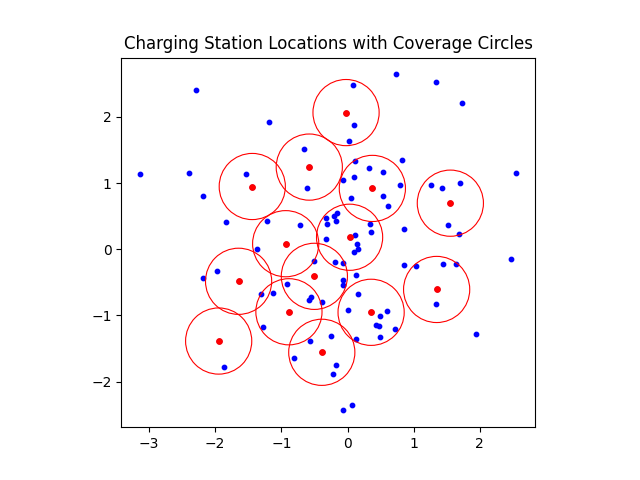
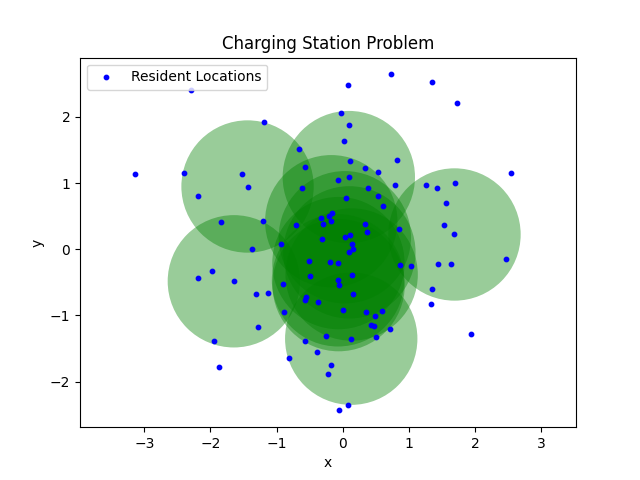
Code Update

diff --git a/ProblemInstance.py b/ProblemInstance.py
@@ -2,11 +2,14 @@ import numpy as np
 import matplotlib.pyplot as plt
 from matplotlib.patches import Circle
 import argparse
+import random
 
 class ProblemInstance:
-    def __init__(self, num_residents, resident_distribution, mpsd, std_dev, seed=None):
+    def __init__(self, num_residents, num_stations, resident_distribution, mpsd, threshold, std_dev, seed=None):
         self.num_residents = num_residents
+        self.num_stations = num_stations
         self.mpsd = mpsd
+        self.threshold = threshold
 
         if seed is not None:
             np.random.seed(seed)
@@ -23,71 +26,104 @@ class ProblemInstance:
         for i in range(num_residents):
             self.residents_within_mpsd[i] = [j for j in range(num_residents) if self.distance(self.resident_locations[i], self.resident_locations[j]) <= mpsd]
 
-        self.initial_costs = num_residents - np.array([len(self.residents_within_mpsd[loc]) for loc in range(num_residents)])
-
     def distance(self, loc1, loc2):
         return np.sqrt((loc1[0] - loc2[0])**2 + (loc1[1] - loc2[1])**2)
 
-    def solve(self, threshold=1.0):
-        uncovered_residents = set(range(self.num_residents))
-        selected_locations = set()
-        total_cost = 0
-        uncovered_resident_goal = (1 - threshold) * self.num_residents
+    def solve(self):
+        self.selected_locations = set()
+        self.covered_residents = set()
+        stations_left = self.num_stations
+        
+        while stations_left > self.num_stations / 2:
+            max_coverage = -1
+            best_location = -1
+            for i in range(self.num_residents):
+                if i in self.selected_locations:
+                    continue
+                new_coverage = len(set(self.residents_within_mpsd[i]) - self.covered_residents)
+                likelihood = self.getInstallationLikelihoodSimplified(i)
+                if new_coverage  > max_coverage and likelihood > 0:
+                    max_coverage = new_coverage
+                    best_location = i
+            self.selected_locations.add(best_location)
+            self.covered_residents.update(self.residents_within_mpsd[best_location])
+            stations_left -= 1
 
-        while len(uncovered_residents) > uncovered_resident_goal:
-            min_ratio = float('inf')
-            selected_location = None
+        while stations_left > 0:
+            max_coverage = -1
+            best_location = -1
+            for i in range(self.num_residents):
+                if i in self.selected_locations:
+                    continue
+                coverage = len(set(self.residents_within_mpsd[i]) & self.covered_residents)
+                likelihood = self.getInstallationLikelihoodSimplified(i)
+                if coverage * likelihood > max_coverage:
+                    max_coverage = coverage * likelihood
+                    best_location = i
+            self.selected_locations.add(best_location)
+            self.covered_residents.update(self.residents_within_mpsd[best_location])
+            stations_left -= 1
 
-            for resident in list(uncovered_residents):
-                residents_covered = [r for r in self.residents_within_mpsd[resident] if r in uncovered_residents]
-                ratio = self.initial_costs[resident] / len(residents_covered)
+        num_trials = 5000
+        num_successes = 0
 
-                if ratio < min_ratio:
-                    min_ratio = ratio
-                    selected_location = resident
+        for _ in range(num_trials):
+            num_covered = set()
+            for location in self.selected_locations:
+                if random.random() < self.getInstallationLikelihoodSimplified(location):
+                    num_covered.update(self.residents_within_mpsd[location])
+            if len(num_covered) >= self.threshold * self.num_residents:
+                num_successes += 1
 
-            selected_locations.add(selected_location)
-            total_cost += self.initial_costs[selected_location]
+        print('Selected Installation Locations:', self.selected_locations)
+        print()
+        print('Covered Residents:', self.covered_residents)
+        print()
+        print('Approximate Probability of Covering Threshold:', num_successes / num_trials)
 
-            uncovered_residents = uncovered_residents - set(self.residents_within_mpsd[selected_location])
+    def getInstallationLikelihoodSimplified(self, location):
+        return 0.5
 
-        self.selected_locations = selected_locations
-        self.total_cost = total_cost
+    def getInstallationLikelihood(self, location):
+        scale_factor = 5
+        mean = scale_factor * len(self.residents_within_mpsd[location]) / self.num_residents
+        return np.clip(np.random.normal(mean, 0.05), 0, 1)
 
     def plot(self, filename=None):
         fig, ax = plt.subplots()
 
-        ax.scatter(self.resident_locations[:, 0], self.resident_locations[:, 1], color='blue', label='Resident Locations', s=10)
-
         for loc in self.selected_locations:
-            ax.scatter(self.resident_locations[loc][0], self.resident_locations[loc][1], color='red', s=15)
-            circle = Circle((self.resident_locations[loc][0], self.resident_locations[loc][1]), self.mpsd, fill=False, color='red', linewidth=0.8)
+            circle = Circle((self.resident_locations[loc][0], self.resident_locations[loc][1]), self.mpsd, fill=True, color='green', linewidth=0, alpha=0.4)
             ax.add_patch(circle)
 
-        ax.set_aspect('equal', adjustable='box')
-        ax.set_title('Charging Station Locations with Coverage Circles')
-        
-        if filename != None:
-            plt.savefig("./Figures/" + filename + ".png")
-            
-        plt.show()
+        ax.scatter(self.resident_locations[:, 0], self.resident_locations[:, 1], color='blue', label='Resident Locations', s=10)
+
+        ax.legend()
+        plt.axis('equal')
+        plt.xlabel('x')
+        plt.ylabel('y')
+        plt.title('Charging Station Problem')
+
+        if filename:
+            plt.savefig(filename)
+        else:
+            plt.show()
 
 def main():
     parser = argparse.ArgumentParser(description="Create and solve Charging Station Problem")
-    parser.add_argument("--num_residents", type=int, default=1000, help="Number of residents")
-    parser.add_argument("--mpsd", type=float, default=3, help="Maximum serviceable distance")
-    parser.add_argument("--threshold", type=float, default=0.90, help="Threshold for solving the problem")
+    parser.add_argument("--num_residents", type=int, default=500, help="Number of residents")
+    parser.add_argument("--num_stations", type=int, default=50, help="Number of stations available")
+    parser.add_argument("--mpsd", type=float, default=6, help="Maximum serviceable distance")
+    parser.add_argument("--threshold", type=float, default=0.80, help="Threshold for solving the problem")
     parser.add_argument("--resident_distribution", choices=["uniform", "normal"], default="normal", help="Distribution of resident locations")
     parser.add_argument("--std_dev", type=float, default=10, help="Standard deviation for normal distribution of resident locations")
     parser.add_argument("--seed", type=int, default=None, help="Random seed for reproducibility")
 
     args = parser.parse_args()
 
-    problem = ProblemInstance(args.num_residents, args.resident_distribution, args.mpsd, args.std_dev, args.seed)
-    problem.solve(args.threshold)
+    problem = ProblemInstance(args.num_residents, args.num_stations, args.resident_distribution, args.mpsd, args.threshold, args.std_dev, args.seed)
 
-    print("Selected Locations (Residents):", problem.selected_locations)
-    print("Total Cost:", problem.total_cost)
+    problem.solve()
     
     problem.plot()
 

diff --git a/instances.py b/instances.py
@@ -1,13 +1,11 @@
 import argparse
-from ProblemInstance import ProblemInstance
+from probleminstance import ProblemInstance
 
 PRESET_PARAMETERS = {
-    'uniform1': {'num_residents': 100, 'mpsd': 0.2, 'threshold': 0.80, 'resident_distribution': 'uniform', 'std_dev': 'N/A', 'seed': 8},
-    'uniform2': {'num_residents': 1000, 'mpsd': 0.2, 'threshold': 0.90, 'resident_distribution': 'uniform', 'std_dev': 'N/A', 'seed': 8},
-    'uniform3': {'num_residents': 5000, 'mpsd': 0.2, 'threshold': 0.90, 'resident_distribution': 'uniform', 'std_dev': 'N/A', 'seed': 8},
-    'normal1': {'num_residents': 100, 'mpsd': 0.5, 'threshold': 0.80, 'resident_distribution': 'normal', 'std_dev': 1, 'seed': 8},
-    'normal2': {'num_residents': 1000, 'mpsd': 3, 'threshold': 0.90, 'resident_distribution': 'normal', 'std_dev': 5, 'seed': 8},
-    'normal3': {'num_residents': 5000, 'mpsd': 40, 'threshold': 0.80, 'resident_distribution': 'normal', 'std_dev': 100, 'seed': 8},
+    'uniform1': {'num_residents': 100, 'num_stations': 15, 'mpsd': 0.2, 'threshold': 0.70, 'resident_distribution': 'uniform', 'std_dev': 'N/A', 'seed': 8},
+    'uniform2': {'num_residents': 1000, 'num_stations': 30, 'mpsd': 0.16, 'threshold': 0.60, 'resident_distribution': 'uniform', 'std_dev': 'N/A', 'seed': 8},
+    'normal1': {'num_residents': 100, 'num_stations': 12, 'mpsd': 1, 'threshold': 0.80, 'resident_distribution': 'normal', 'std_dev': 1, 'seed': 8},
+    'normal2': {'num_residents': 1000, 'num_stations': 50, 'mpsd': 5, 'threshold': 0.90, 'resident_distribution': 'normal', 'std_dev': 5, 'seed': 8},
 }
 
 def main():
@@ -17,18 +15,16 @@ def main():
     args = parser.parse_args()
 
     parameters = PRESET_PARAMETERS[args.keyword]
-    problem = ProblemInstance(parameters['num_residents'], parameters['resident_distribution'], parameters['mpsd'], parameters['std_dev'], parameters['seed'])
-    problem.solve(parameters['threshold'])
+    problem = ProblemInstance(parameters['num_residents'], parameters['num_stations'], parameters['resident_distribution'], parameters['mpsd'], parameters['threshold'], parameters['std_dev'], parameters['seed'])
+    problem.solve()
 
     print("Residents: ", parameters['num_residents'])
     print("Distribution: ", parameters['resident_distribution'])
     print("Threshold: ", parameters['threshold'])
     print("MPSD: ", parameters['mpsd'])
 
-    print("Selected Residents:", problem.selected_locations)
-    print("Total Cost:", problem.total_cost)
-
-    problem.plot(args.keyword)
+    problem.plot('./Figures/' + args.keyword)
+    # problem.plot()
 
 if __name__ == "__main__":
     main()

diff --git a/README.md b/README.md
@@ -13,10 +13,8 @@ python instances.py [instance]
 ### The current available set of intances:
 - uniform1
 - uniform2
-- uniform3
 - normal1
 - normal2
-- normal3
 
 ## Instructions for Custom Instances
 
@@ -25,5 +23,5 @@ pip install -r requirements.txt
 ```
 
 ```
-python ProblemInstance.py --num_residents [0+] --mpsd [0+] --threshold [0-1] --resident_distribution [uniform/normal] --std_dev [None/0+] --seed [None/0+]
+python ProblemInstance.py --num_residents [0+] --num_stations [0+] --mpsd [0+] --threshold [0-1] --resident_distribution [uniform/normal] --std_dev [None/0+] --seed [None/0+]
 ```
